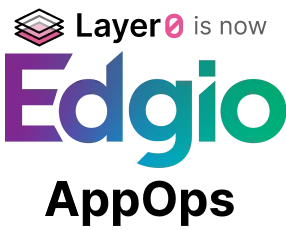
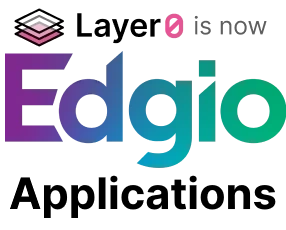
Rebranded to Applications, Performance, Sites, and Security; Updated links (#637)

Changed region(s): [[0.028, 0.7609, 0.979, 1.0], [0.1399, 0.1522, 0.1678, 0.1826]]

diff --git a/src/components/Docs/DocsFooter.tsx b/src/components/Docs/DocsFooter.tsx
@@ -143,11 +143,11 @@ const StyledDocsFooter = styled.footer`
 const secFooterLinks = [
   {
     name: 'About Edgio',
-    href: 'https://edg.io/company/about-us',
+    href: 'https://edg.io/company/about-us/',
   },
   {
     name: 'Careers',
-    href: 'https://edg.io/company/careers',
+    href: 'https://edg.io/company/careers/',
   },
   {
     name: 'Support',
@@ -158,7 +158,7 @@ const secFooterLinks = [
     href: 'https://investors.edg.io/corporate-profile/default.aspx',
   },
   {
-    name: 'Newsroom',
+    name: 'Press Releases',
     href: 'https://investors.edg.io/news/press-releases/default.aspx',
   },
 ];
@@ -175,7 +175,7 @@ const pryFooterLinks = {
     },
     {
       title: 'Status',
-      href: 'https://status.layer0.co/?sgId=7bc47c45-c1d6-4189-b416-552581d86006',
+      href: 'https://status.edg.io/?sgId=7bc47c45-c1d6-4189-b416-552581d86006',
     },
     {
       title: 'Support',
@@ -193,11 +193,11 @@ const pryFooterLinks = {
   community: [
     {
       title: 'Forum',
-      href: 'https://forum.layer0.co/?sgId=7bc47c45-c1d6-4189-b416-552581d86006',
+      href: 'https://forum.edg.io/?sgId=7bc47c45-c1d6-4189-b416-552581d86006',
     },
     {
       title: 'Blog',
-      href: 'https://edg.io/resources/blog',
+      href: 'https://edg.io/resources/blog/',
     },
     {
       title: 'JavaScript Jam',
@@ -237,23 +237,23 @@ const pryFooterLinks = {
   products: [
     {
       title: 'Delivery',
-      href: 'https://edg.io/delivery',
+      href: 'https://edg.io/media/delivery/',
     },
     {
       title: 'Streaming',
-      href: 'https://edg.io/streaming',
+      href: 'https://edg.io/media/uplynk/',
     },
     {
-      title: 'App Edge',
-      href: 'https://edg.io/appops/app-edge',
+      title: 'Performance',
+      href: 'https://edg.io/app/performance/',
     },
     {
-      title: 'App Security',
-      href: 'https://edg.io/appops/app-security',
+      title: 'Security',
+      href: 'https://edg.io/app/security/',
     },
     {
-      title: 'App Platform',
-      href: 'https://edg.io/appops/app-platform',
+      title: 'Sites',
+      href: 'https://edg.io/app/sites/',
     },
   ],
 };

diff --git a/src/components/MDX/HomepageHero.tsx b/src/components/MDX/HomepageHero.tsx
@@ -67,7 +67,7 @@ function HomepageHero() {
           <div id="dark-theme">
             <Image
               src="/images/home/l0-to-edgio-light.webp"
-              alt="Layer0 is now Edgio AppOps"
+              alt="Layer0 is now Edgio Applications"
               width={286}
               height={230}
               priority={true}
@@ -77,7 +77,7 @@ function HomepageHero() {
           <div id="light-theme">
             <Image
               src="/images/home/l0-to-edgio-dark.webp"
-              alt="Layer0 is now Edgio AppOps"
+              alt="Layer0 is now Edgio Applications"
               width={286}
               height={230}
               priority={true}
@@ -90,9 +90,9 @@ function HomepageHero() {
             </Link>
           </p>
           <p className="subheadline">
-            Edgio AppOps is an Internet-scale platform that makes it easy for
-            teams to build, release, protect, and accelerate their web apps and
-            APIs.
+            Edgio Applications is an Internet-scale platform that makes it easy
+            for teams to build, release, protect, and accelerate their web apps
+            and APIs.
           </p>
         </div>
       </Container>

diff --git a/constants.js b/constants.js
@@ -2,9 +2,9 @@ const COMPANY_NAME = 'Edgio';
 const PRODUCT_NAME = 'Edgio';
 const PRODUCT = 'Edgio';
 const PRODUCT_LEGACY = 'Layer0';
-const PRODUCT_EDGE = 'App Edge';
-const PRODUCT_PLATFORM = 'App Platform';
-const PRODUCT_SECURITY = 'App Security';
+const PRODUCT_EDGE = 'Performance';
+const PRODUCT_PLATFORM = 'Sites';
+const PRODUCT_SECURITY = 'Security';
 const PRODUCT_NAME_LOWER = PRODUCT_LEGACY.toLowerCase();
 const PRODUCT_NAME_UPPER = PRODUCT_LEGACY.toUpperCase();
 const CLI_NAME = '0';
@@ -24,9 +24,9 @@ const EXAMPLES_REPO = 'layer0-docs/layer0-examples';
 
 const WWW_URL = `https://www.${DOMAIN}`;
 const APP_URL = `https://${APP_DOMAIN}`;
-const FORUM_URL = `https://forum.${DOMAIN}`;
+const FORUM_URL = `https://forum.edg.io`;
 const FIDDLE_URL = `https://fiddle.${DOMAIN}`;
-const STATUS_URL = `https://status.${DOMAIN}`;
+const STATUS_URL = `https://status.edg.io`;
 const HELP_URL = `https://help.${DOMAIN}`;
 const SUPPORT_URL = `${APP_URL}/help`;
 const DOCS_URL = `https://${DOCS_DOMAIN}`;

diff --git a/src/data/SidebarMenuItems.tsx b/src/data/SidebarMenuItems.tsx
@@ -737,13 +737,13 @@ const SidebarMenuItems: ISidebarMenuItems = [
       title: 'Forum',
       icon: <IconForum />,
       iconDark: <IconForumDark />,
-      path: 'https://forum.layer0.co/?sgId=7bc47c45-c1d6-4189-b416-552581d86006',
+      path: 'https://forum.edg.io/?sgId=7bc47c45-c1d6-4189-b416-552581d86006',
     },
     {
       title: 'Status',
       icon: <IconStatus />,
       iconDark: <IconStatusDark />,
-      path: 'https://status.layer0.co/?sgId=7bc47c45-c1d6-4189-b416-552581d86006',
+      path: 'https://status.edg.io/?sgId=7bc47c45-c1d6-4189-b416-552581d86006',
     },
     {
       title: 'Support',

diff --git a/src/pages/guides/webapp_cdn_getting_started.md b/src/pages/guides/webapp_cdn_getting_started.md
@@ -2,7 +2,7 @@
 title: Web CDN
 ---
 
-Deploying your web application behind {{ PRODUCT }} is the fastest and easiest way to start seeing the performance benefits made possible by the {{ PRODUCT_EDGE }} network. In this guide we'll show you how to:
+Deploying your web application behind {{ PRODUCT }} is the fastest and easiest way to start seeing the performance benefits made possible by the {{ PRODUCT }} network. In this guide we'll show you how to:
 
 - Create a new {{ PRODUCT }} project
 - Configure edge caching using EdgeJS
